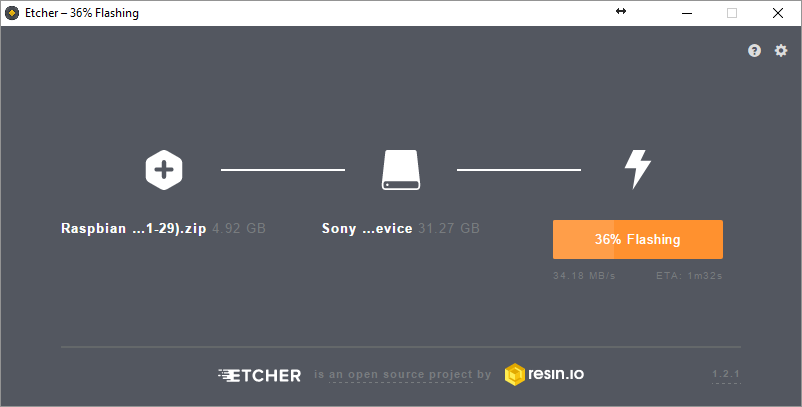
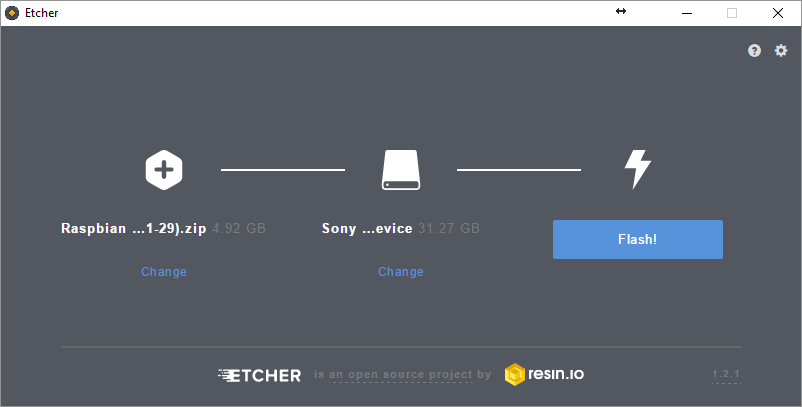
edit
edit

diff --git a/README.md b/README.md
@@ -53,7 +53,7 @@ From the displayed list select your Micro SD card and click "Continue".<br>
 ![alt text](https://raw.githubusercontent.com/V-Socrates/It-is-Moist/master/Documentation/IMAGES-VIDEOS/Build%20Related/Etcher2.PNG)
 
 After selecting your Raspbian OS and your Micro SD card, click "Flash!".<br>
-![alt text](https://raw.githubusercontent.com/V-Socrates/It-is-Moist/master/Documentation/IMAGES-VIDEOS/Build%20Related/Etcher1.PNG)
+![alt text](https://raw.githubusercontent.com/V-Socrates/It-is-Moist/master/Documentation/IMAGES-VIDEOS/Build%20Related/Etcher5.PNG)
 
 The flashing of the Raspbian OS may take several minutes depending on you system and Micro SD card. After it is completed you will see the following screen below.<br>
 ![alt text](https://raw.githubusercontent.com/V-Socrates/It-is-Moist/master/Documentation/IMAGES-VIDEOS/Build%20Related/Etcher4.PNG)
